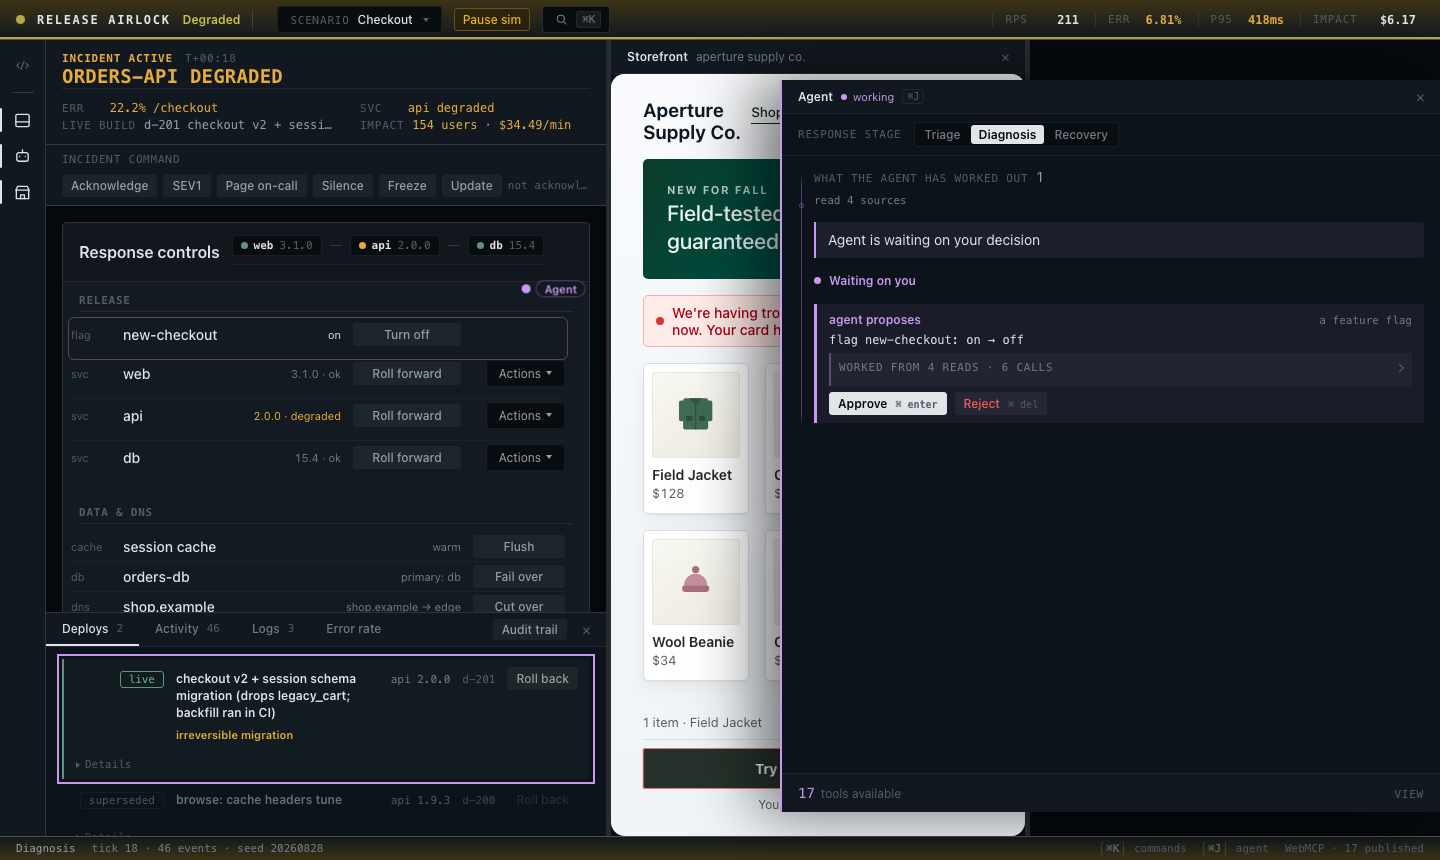
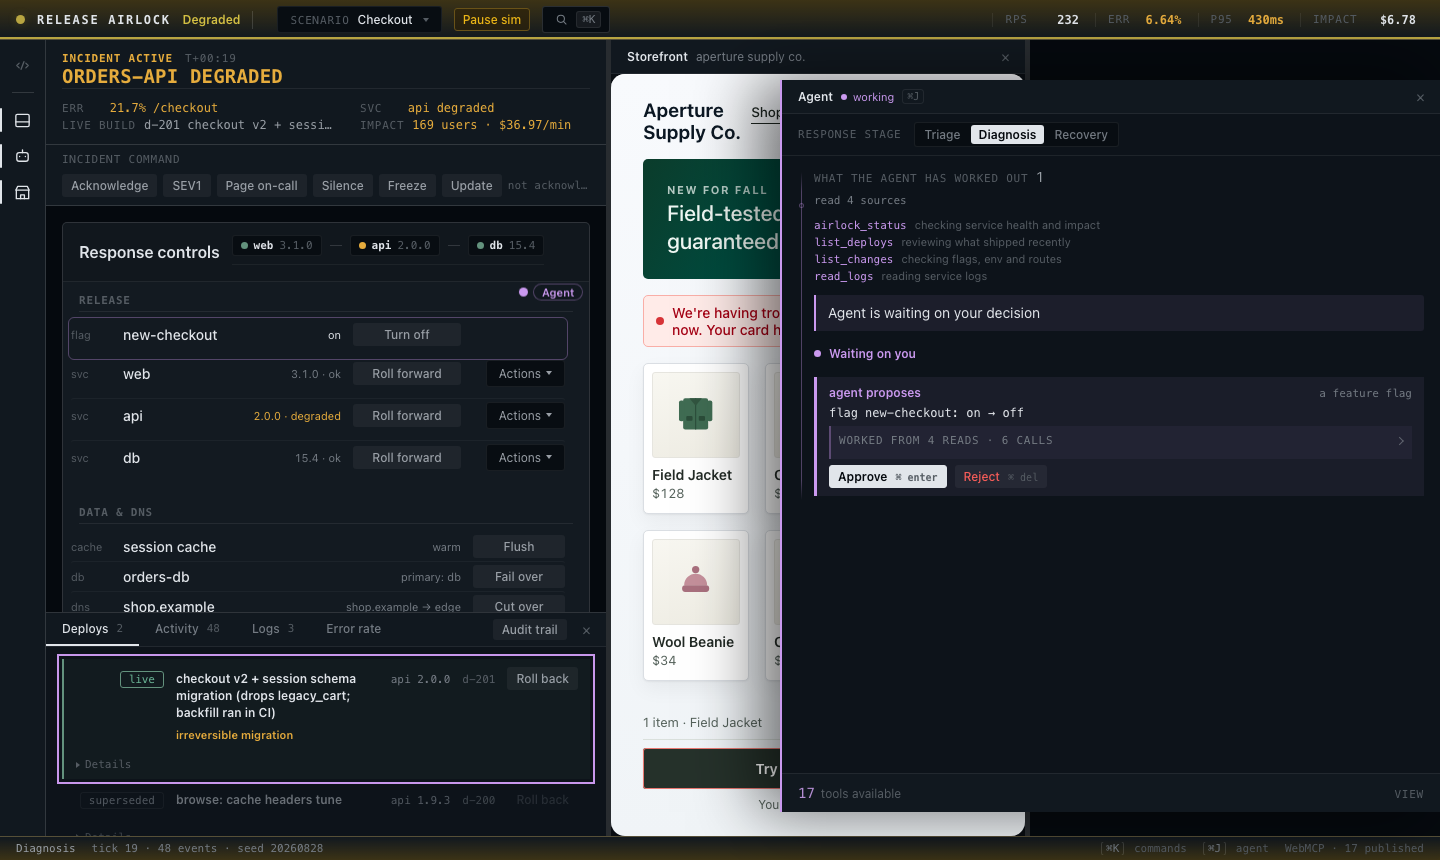
the agent panel: state decides density, and one decision is in focus
Sid: "the density and font of text in the panel looks so ugly ... if it's too
packed and mostly text not in clean beautiful components no one wants to look
at it seriously". This is the last mile and he is right about both halves of
it — the type and the amount.

THE TYPE. The whole plan card was set in the INSTRUMENT face at 11-12px.
Twenty-eight lines of monospace for a seven-step response. Mono is for machine
truth — identifiers, values, log lines — and a sentence explaining why an order
matters is prose. The card is prose now, at a readable size, with mono kept for
the things that are actually machine truth.

THE AMOUNT — and this is the real fix. Every step rendered its title, its
price, its rationale and a status note whatever state it was in. For an ordered
pair that was tolerable; for the real seven-step response it is a wall, and
twenty-six of those lines are about steps the operator is not being asked
about. So STATE DECIDES DENSITY:
 - done, or not yet asked -> ONE line, dimmed, truncated
 - the step you are being asked about -> a card: title at 16px, the agent's
   reason, the price under its own label, the evidence, and the two buttons

WHY BEFORE COST. The card opened with a generic warning about the lever and
buried the one sentence specific to this incident. The agent's reason for THIS
step leads; the lever's price is what you weigh it against.

THREE THINGS THAT WERE JUST NOISE:
 - "waiting on your decision" under a card carrying Approve and Reject is a
[…]

Changed region(s): [[0.5625, 0.3628, 1.0, 0.5744], [0.5625, 0.2419, 0.75, 0.3326], [0.3438, 0.3023, 0.4062, 0.3628]]

diff --git a/src/styles/shell.css b/src/styles/shell.css
@@ -1836,8 +1836,13 @@ body {
   display: flex;
   flex-direction: column;
   gap: var(--sp-2);
-  font-family: var(--font-instrument);
-  font-size: var(--text-xs);
+  /* PROSE, NOT MONO. The whole card was set in the instrument face at 11-12px
+     — twenty-eight lines of monospace for a seven-step plan, which is the
+     "density and font ... looks so ugly" Sid is reading. Mono is for machine
+     truth: identifiers, values, log lines. A sentence explaining why an order
+     matters is prose, and it is the thing an operator has to actually read. */
+  font-family: var(--font-prose);
+  font-size: var(--text-sm);
 }
 .plan-card[data-state='abandoned'] { opacity: 0.85; }
 .plan-card[data-state='abandoned']::before { background: var(--ink-ghost); }
@@ -1929,6 +1934,7 @@ body {
   letter-spacing: var(--tracking-label);
 }
 .pl-why-t {
+  line-height: 1.55;
   margin: 0;
   color: var(--ink);
   font-family: var(--font-prose);
@@ -1936,64 +1942,162 @@ body {
   line-height: 1.5;
 }
 
-.pl-steps { list-style: none; margin: 0; padding: 0; display: flex; flex-direction: column; gap: var(--sp-2); }
-.pl-step {
-  position: relative;
-  padding-left: var(--sp-4);
-  border-left: 1px solid var(--line);
-  counter-increment: pl;
+/* ONE DECISION IN FOCUS, THE REST AS A LIST.
+   Every step used to render its title, its price, its rationale and a status
+   note whatever state it was in. For an ordered PAIR that was four lines of
+   detail; for the real seven-step response it is a twenty-eight-line wall,
+   and twenty-six of those lines are about steps the operator is not being
+   asked about. Sid: "if it's too packed and mostly text ... no one wants to
+   look at it seriously".
+   So state decides density. A step that is DONE or NOT YET ASKED is one line.
+   The step you are being asked about is a card, with its price and its reason
+   and its buttons. That is the whole ergonomic idea. */
+.pl-steps {
+  list-style: none;
+  margin: 0;
+  padding: 0;
+  display: flex;
+  flex-direction: column;
+  gap: 1px;
+  counter-reset: pl;
 }
-.pl-steps { counter-reset: pl; }
-/* the rail marker: hollow → ringed → filled, so state is legible without text */
+.pl-step {
+  display: grid;
+  grid-template-columns: 20px minmax(0, 1fr);
+  column-gap: var(--sp-3);
+  align-items: start;
+  padding: 5px 0;
+  counter-increment: pl;
+  border-radius: var(--r-sm);
+}
+.pl-step > * { grid-column: 2; }
+/* the marker: hollow → ringed → filled, so state is legible without text */
 .pl-step::before {
   content: counter(pl);
-  position: absolute;
-  left: -9px;
-  top: 0;
-  width: 17px;
-  height: 17px;
+  grid-column: 1;
+  grid-row: 1;
+  width: 18px;
+  height: 18px;
   border-radius: 50%;
   display: grid;
   place-items: center;
-  font-size: var(--text-2xs);
+  font-family: var(--font-instrument);
+  font-size: 10px;
+  line-height: 1;
   font-variant-numeric: tabular-nums;
-  background: var(--panel);
-  border: 1px solid var(--line);
+  background: none;
+  border: 1px solid var(--line-strong);
   color: var(--ink-ghost);
+  margin-top: 1px;
 }
 .pl-step[data-state='live']::before {
   border-color: var(--actor-agent);
-  color: var(--actor-agent);
-  box-shadow: 0 0 0 3px oklch(76% 0.13 310 / 0.18);
+  background: var(--actor-agent);
+  color: oklch(18% 0.03 310);
+  font-weight: 600;
 }
 .pl-step[data-state='done']::before {
   content: '✓';
-  border-color: var(--good);
-  background: var(--good);
-  color: var(--panel);
+  border-color: color-mix(in oklch, var(--good) 45%, transparent);
+  background: none;
+  color: var(--good);
 }
 .pl-step[data-state='skipped']::before,
 .pl-step[data-state='blocked']::before { border-color: var(--bad); color: var(--bad); }
 .pl-step[data-state='dropped'] { opacity: 0.5; }
 
+/* --- the quiet states: one line, and nothing else ---------------------- */
+.pl-step[data-state='pending'] .pl-cost,
+.pl-step[data-state='pending'] .pl-because,
+.pl-step[data-state='pending'] .pl-note,
+.pl-step[data-state='done'] .pl-cost,
+.pl-step[data-state='done'] .pl-because,
+.pl-step[data-state='done'] .pl-note,
+.pl-step[data-state='dropped'] .pl-cost,
+.pl-step[data-state='dropped'] .pl-because,
+.pl-step[data-state='dropped'] .pl-note { display: none; }
+.pl-step[data-state='pending'] .pl-what,
+.pl-step[data-state='dropped'] .pl-what {
+  color: var(--ink-faint);
+  white-space: nowrap;
+  overflow: hidden;
+  text-overflow: ellipsis;
+}
+.pl-step[data-state='done'] .pl-what {
+  color: var(--ink-dim);
+  white-space: nowrap;
+  overflow: hidden;
+  text-overflow: ellipsis;
+}
+
+/* --- the live step: the only card on the list -------------------------- */
+/* A REAL SURFACE. Everything else on this list is a line of text; the step
+   being decided is an object you can point at. It gets the panel's raised
+   ground, a hairline, and the agent's violet down its edge — the same accent
+   the dock already uses for "this is the agent asking". */
+.pl-step[data-state='live'] {
+  padding: var(--sp-3) var(--sp-3) var(--sp-3) var(--sp-3);
+  margin: var(--sp-2) 0;
+  grid-template-columns: 20px minmax(0, 1fr);
+  background: color-mix(in oklch, var(--panel-raised) 78%, var(--actor-agent) 6%);
+  border: 1px solid color-mix(in oklch, var(--actor-agent) 28%, var(--line));
+  border-left: 2px solid var(--actor-agent);
+  border-radius: var(--r-md);
+}
+/* the reason leads, so it reads as a sentence and not a caption */
+.pl-step[data-state='live'] .pl-because {
+  margin-top: var(--sp-2);
+  color: var(--ink);
+  font-size: var(--text-sm);
+  line-height: 1.5;
+}
+.pl-step[data-state='live'] .pl-what {
+  color: var(--ink);
+  font-weight: 600;
+  font-size: var(--text-md);
+  line-height: 1.35;
+  letter-spacing: -0.01em;
+}
+
 .pl-what { margin: 0; color: var(--ink); line-height: 1.45; }
-.pl-step[data-state='done'] .pl-what { color: var(--ink-dim); text-decoration: line-through; text-decoration-color: var(--ink-ghost); }
-.pl-cost { margin: 2px 0 0; color: var(--ink-faint); font-size: var(--text-2xs); line-height: 1.5; }
+.pl-cost {
+  margin: var(--sp-2) 0 0;
+  padding-top: var(--sp-2);
+  border-top: 1px solid var(--line);
+  color: var(--ink-dim);
+  font-size: var(--text-xs);
+  line-height: 1.55;
+}
+/* the price gets a label on its own line, not a word jammed in front of a
+   sentence — it is the one thing on the card an operator must not skim */
 .pl-cost-k {
+  display: block;
   color: var(--warn);
+  font-family: var(--font-instrument);
+  font-size: var(--text-2xs);
   text-transform: uppercase;
   letter-spacing: var(--tracking-label);
-  margin-right: var(--sp-2);
+  margin-bottom: 3px;
 }
+/* the agent's reason for THIS step, in its own voice: it leads the card,
+   above the price, because it is what the operator is weighing */
 .pl-because {
-  margin: 2px 0 0;
+  margin: 5px 0 0;
   color: var(--ink-dim);
   font-family: var(--font-prose);
   font-size: var(--text-xs);
-  line-height: 1.45;
+  line-height: 1.5;
 }
-.pl-note { margin: 2px 0 0; color: var(--ink-ghost); font-size: var(--text-2xs); }
-.pl-step[data-state='live'] .pl-note { color: var(--actor-agent); }
+.pl-note {
+  margin: var(--sp-2) 0 0;
+  color: var(--ink-ghost);
+  font-family: var(--font-instrument);
+  font-size: var(--text-2xs);
+}
+/* "waiting on your decision" under a card with Approve and Reject on it is a
+   caption restating its own buttons. The live step is the only one that never
+   needs a status line, because its status is the two controls at the bottom. */
+.pl-step[data-state='live'] .pl-note { display: none; }
 .pl-step[data-state='blocked'] .pl-note,
 .pl-step[data-state='skipped'] .pl-note { color: var(--bad); }
 /* the live step's own approval card sits inside the step, not beside it.
@@ -2001,7 +2105,16 @@ body {
    drops both and carries only what the step cannot: the tier, the evidence
    it was assembled from, the key when one is needed, and the decision. */
 .pl-slot:empty { display: none; }
-.pl-slot .approval-card { margin: var(--sp-2) 0 0; background: none; border-left-width: 2px; }
+.pl-slot .approval-card {
+  margin: var(--sp-3) 0 0;
+  background: none;
+  /* INSIDE a card already, so it brings no frame of its own — the nested
+     border was the last "card inside card" left in the dock. */
+  border: 0;
+  border-top: 1px solid var(--line);
+  border-radius: 0;
+  padding: var(--sp-3) 0 0;
+}
 .pl-slot .ap-diff,
 .pl-slot .ap-actor { display: none; }
 .pl-slot .ap-tier { margin-left: 0; }
@@ -2337,7 +2450,32 @@ body {
 /* A READ is the agent looking, not the agent concluding — it reports at the
    weight of a caption, and its pip is hollow. Consecutive reads merge into
    one entry so five lookups do not out-shout the finding they produced. */
-.thread-read { cursor: default; }
+.thread-read { cursor: pointer; }
+/* what the one-line summary opens into: the calls themselves, named. */
+.tr-list {
+  list-style: none;
+  margin: var(--sp-2) 0 0;
+  padding: 0;
+  display: grid;
+  gap: 3px;
+}
+.finding[data-fold='true'] .tr-list { display: none; }
+.tr-list li { display: flex; gap: var(--sp-2); align-items: baseline; min-width: 0; }
+.tr-tool {
+  flex: none;
+  font-family: var(--font-instrument);
+  font-size: var(--text-2xs);
+  color: var(--actor-agent);
+}
+.tr-says {
+  min-width: 0;
+  font-family: var(--font-prose);
+  font-size: var(--text-2xs);
+  color: var(--ink-ghost);
+  overflow: hidden;
+  text-overflow: ellipsis;
+  white-space: nowrap;
+}
 .thread-read .finding-summary {
   color: var(--ink-faint);
   font-family: var(--font-instrument);

diff --git a/src/main.ts b/src/main.ts
@@ -1564,6 +1564,16 @@ function renderPlan(e: Event): void {
     what.className = 'pl-what';
     what.textContent = stepDescription(step);
     li.append(what);
+    // WHY BEFORE WHAT IT COSTS. The agent's reason for this step is what the
+    // operator is weighing; the lever's price is what they weigh it against.
+    // Rendered the other way round, the card opened with a generic warning
+    // about the lever and buried the one sentence specific to this incident.
+    if (step.because) {
+      const b = document.createElement('p');
+      b.className = 'pl-because';
+      renderCitedText(b, step.because);
+      li.append(b);
+    }
     const cost = WRITE_ACTIONS[step.tool]?.cost;
     if (cost) {
       const c = document.createElement('p');
@@ -1573,12 +1583,6 @@ function renderPlan(e: Event): void {
       ck.textContent = 'Costs';
       c.append(ck, document.createTextNode(cost));
       li.append(c);
-    }
-    if (step.because) {
-      const b = document.createElement('p');
-      b.className = 'pl-because';
-      renderCitedText(b, step.because);
-      li.append(b);
     }
     const note = document.createElement('p');
     note.className = 'pl-note';
@@ -2164,14 +2168,35 @@ function threadRead(tool: string): void {
   if (!host || !said) return;
   document.querySelector<HTMLElement>('#findings-empty')!.hidden = true;
 
+  // The summary collapses N reads into one line; the LIST is what that line
+  // opens into. Without it the entry toggled and showed nothing, which is
+  // worse than not being clickable at all (Sid: "clicking 'read 5 sources'
+  // does nothing though").
+  const paint = (el: HTMLElement): void => {
+    const tools = (el.dataset.tools ?? '').split(',').filter(Boolean);
+    el.querySelector('.tr-what')!.textContent =
+      tools.length === 1 ? (READ_NARRATION[tools[0]!]?.says ?? tools[0]!) : `read ${tools.length} sources`;
+    const list = el.querySelector<HTMLElement>('.tr-list')!;
+    list.innerHTML = '';
+    for (const t of tools) {
+      const li = document.createElement('li');
+      const name = document.createElement('code');
+      name.className = 'tr-tool';
+      name.textContent = t;
+      const says = document.createElement('span');
+      says.className = 'tr-says';
+      says.textContent = READ_NARRATION[t]?.says ?? '';
+      li.append(name, says);
+      list.append(li);
+    }
+  };
+
   const last = host.lastElementChild as HTMLElement | null;
   if (last?.dataset.kind === 'reads') {
     const seen = new Set((last.dataset.tools ?? '').split(',').filter(Boolean));
     seen.add(tool);
     last.dataset.tools = [...seen].join(',');
-    last.querySelector('.tr-what')!.textContent =
-      seen.size === 1 ? said.says : `read ${seen.size} sources`;
-    last.title = [...seen].join(' · ');
+    paint(last);
     return;
   }
 
@@ -2179,11 +2204,13 @@ function threadRead(tool: string): void {
   el.className = 'finding thread-read';
   el.dataset.kind = 'reads';
   el.dataset.tools = tool;
-  el.title = tool;
   const p = document.createElement('p');
   p.className = 'finding-summary tr-what';
-  p.textContent = said.says;
   el.append(p);
+  const list = document.createElement('ul');
+  list.className = 'tr-list';
+  el.append(list);
+  paint(el);
   host.append(el);
   while (host.children.length > 6) host.firstElementChild!.remove();
   foldOlderFindings(host);
